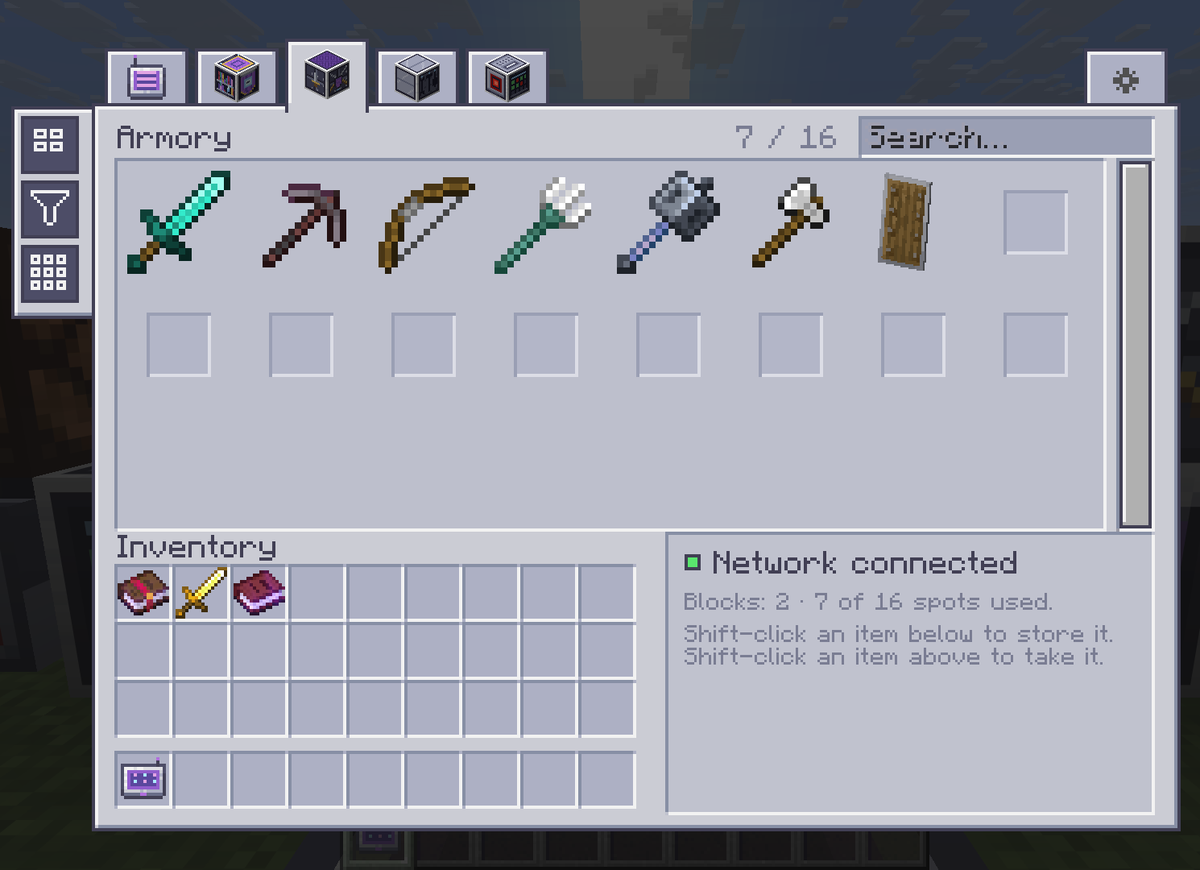
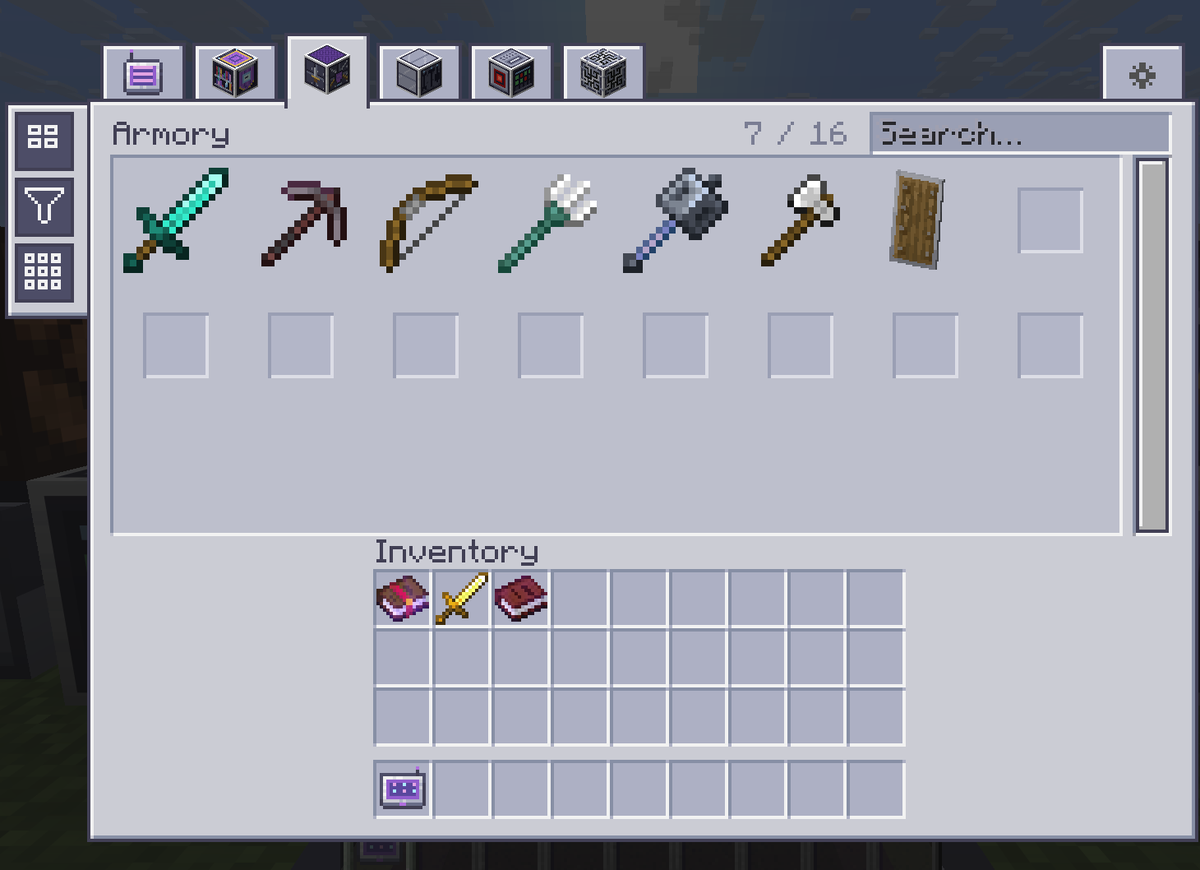
Remove the tablet info card; centre the inventory
The card only repeated what the page already shows (pages show their own
message when the network can't be reached) and hints that are in the
hover tooltips. README text and screenshots updated.

Claude-Session: https://claude.ai/code/session_016nHn3zyaCUZn4i7ndTWKcZ

diff --git a/src/main/java/io/github/moosasharwaan/appliedquartermaster/client/TabletScreen.java b/src/main/java/io/github/moosasharwaan/appliedquartermaster/client/TabletScreen.java
@@ -181,13 +181,9 @@ public class TabletScreen extends AbstractContainerScreen<TabletMenu> {
         return rows * CELL_H[size()];
     }
 
-    /** The inventory sits at the left like in AE2's terminals; the info card fills the space to its right. */
+    /** The player inventory, centred under the page. */
     private int inventoryX() {
-        return 8;
-    }
-
-    private int infoX() {
-        return inventoryX() + 162 + 8;
+        return (W - 162) / 2;
     }
 
     private int inventoryY() {
@@ -501,8 +497,6 @@ public class TabletScreen extends AbstractContainerScreen<TabletMenu> {
         } else {
             drawStoragePage(g, x, y, mx, my);
         }
-
-        drawInfoCard(g, x, y);
 
         // Inventory.
         g.text(font, playerInventoryTitle, x + inventoryX(), y + inventoryY() - 10, TEXT, false);
@@ -989,88 +983,6 @@ public class TabletScreen extends AbstractContainerScreen<TabletMenu> {
     }
 
     /** The card to the right of the inventory: network status and what this page can do. */
-    private void drawInfoCard(GuiGraphicsExtractor g, int x, int y) {
-        int cx = x + infoX();
-        int cy = y + inventoryY() - 11;
-        int cw = W - infoX() - 8;
-        int ch = 18 * 4 + 4 + 12;
-        inset(g, cx, cy, cw, ch, 0xFFC0C2CE);
-        String message = statusMessage();
-        boolean ok = message == null;
-        dot(g, cx + 8.5f, cy + 9.5f, 6, ok);
-        g.text(font, Component.translatable(ok ? "gui.appliedquartermaster.info.connected" : "gui.appliedquartermaster.info.not_connected"),
-                cx + 15, cy + 6, TEXT, false);
-        var lines = new ArrayList<Component>();
-        if (!ok) {
-            lines.add(Component.translatable(message));
-        } else if (isModulesPage()) {
-            int count = 0;
-            for (int i = 0; i < TabletModules.SLOTS; i++) {
-                if (!menu.getModule(i).isEmpty()) {
-                    count++;
-                }
-            }
-            lines.add(Component.translatable("gui.appliedquartermaster.info.modules", count, TabletModules.SLOTS));
-            lines.add(Component.translatable("gui.appliedquartermaster.info.modules_hint"));
-        } else if (isDevicesPage()) {
-            var view = menu.getDevices();
-            if (view != null) {
-                var sum = view.summary();
-                // Energy bar
-                int bx = cx + 6;
-                int by = cy + 19;
-                int bw = cw - 12;
-                g.fill(bx, by, bx + bw, by + 6, OUTLINE);
-                g.fill(bx + 1, by + 1, bx + bw - 1, by + 5, 0xFF2A2938);
-                int filled = sum.maxStored() <= 0 ? 0 : (int) Math.round((bw - 2) * Math.min(1, sum.stored() / sum.maxStored()));
-                g.fill(bx + 1, by + 1, bx + 1 + filled, by + 5, 0xFF8E6BD9);
-                lines.add(Component.translatable("gui.appliedquartermaster.devices.energy",
-                        formatAe(sum.stored()), formatAe(sum.maxStored())));
-                lines.add(Component.translatable("gui.appliedquartermaster.devices.power",
-                        formatAe(sum.usage()), formatAe(sum.injection())));
-                lines.add(Component.translatable("gui.appliedquartermaster.devices.controller."
-                        + (sum.controller() == DevicesViewPayload.CONTROLLER_ONLINE ? "online"
-                        : sum.controller() == DevicesViewPayload.CONTROLLER_CONFLICT ? "conflict" : "none"),
-                        sum.channels()));
-            }
-        } else if (isAutomationPage()) {
-            var view = menu.getAutomation();
-            if (view != null && view.inFarm()) {
-                int on = 0;
-                for (var e : view.entries()) {
-                    if (e.state() == 2) {
-                        on++;
-                    }
-                }
-                lines.add(Component.translatable(view.farmOnline() ? "gui.appliedquartermaster.info.farm_online"
-                        : "gui.appliedquartermaster.info.farm_offline"));
-                lines.add(Component.translatable("gui.appliedquartermaster.info.plates_on", on, view.entries().size()));
-            } else {
-                lines.add(Component.translatable("gui.appliedquartermaster.info.farms_hint"));
-            }
-        } else {
-            int used = menu.getViewItems().size();
-            int total = used + menu.getViewFree();
-            lines.add(Component.translatable("gui.appliedquartermaster.info.blocks", total / 8, used, total));
-            lines.add(Component.translatable("gui.appliedquartermaster.info.store_hint"));
-        }
-        int ty = cy + (ok && isDevicesPage() && menu.getDevices() != null ? 29 : 19);
-        for (var line : lines) {
-            for (var part : font.split(line, (int) ((cw - 12) / SMALL))) {
-                g.pose().pushMatrix();
-                g.pose().translate(cx + 6, ty);
-                g.pose().scale(SMALL, SMALL);
-                g.text(font, part, 0, 0, TEXT_DIM, false);
-                g.pose().popMatrix();
-                ty += 7;
-                if (ty > cy + ch - 8) {
-                    return;
-                }
-            }
-            ty += 3;
-        }
-    }
-
     private void smallButton(GuiGraphicsExtractor g, int x, int y, int w, String label, boolean hover) {
         g.fill(x, y, x + w, y + 13, OUTLINE);
         g.fill(x + 1, y + 1, x + w - 1, y + 12, hover ? BUTTON_HOVER : BUTTON);

diff --git a/README.md b/README.md
@@ -73,7 +73,6 @@ Open it with the **gear** at the top right.
   into the module.
 - **Pin:** click the small pin on a module (or right-click any tab) to make it the tab that opens first. The pinned tab
   has a gold pin. Click again to unpin.
-- **Info card** (bottom right on every page): shows whether the network is connected, with short hints for the page.
 
 #### Upgrades and battery
 
@@ -127,9 +126,7 @@ grouped by kind, much like AE2's Network Status screen, but you can look inside 
 
 * Each kind shows its icon, how many there are, and a status light: green when all are working, red when any are
   offline (the count of offline ones is shown).
-* The info card on the right shows the network's stored energy as a bar, the energy figures, power use and gain, and
-  whether the ME Controller is online with how many channels are in use.
-* Click a kind to list each device of it: its position (and dimension when not the Overworld), a state chip
+* Click a kind to list each device of it: its position (and dimension when not the Overworld), a state light
   (**Active**, **No channel**, **No power** or **Starting**), the channels it carries and its power use in AE/t.
   Hover a row for full details.
 
